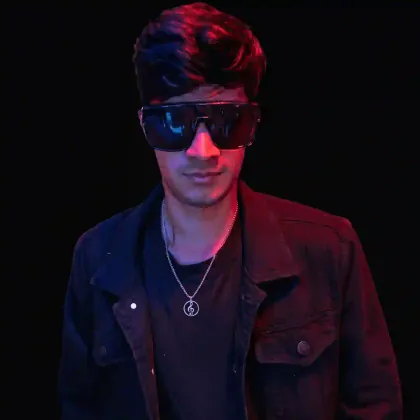
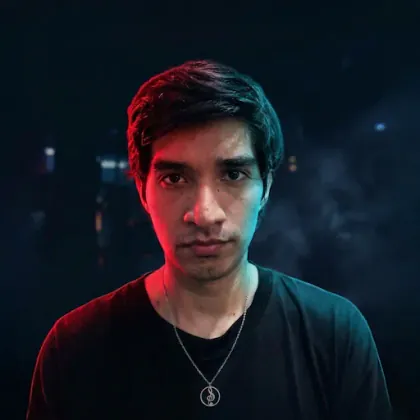
Auto-deploy: Build Blindado por AegisWasm

diff --git a/aegis-sdk.js b/aegis-sdk.js
@@ -7,7 +7,7 @@ class AegisShield {
         if (!document.querySelector('link[href*="aegis_engine.wasm"]')) {
             const preloadWasm = document.createElement('link');
             preloadWasm.rel = 'preload';
-            preloadWasm.href = '/bin/aegis_engine.wasm?v=672678';
+            preloadWasm.href = '/bin/aegis_engine.wasm?v=251523';
             preloadWasm.as = 'fetch';
             preloadWasm.type = 'application/wasm';
             preloadWasm.crossOrigin = 'anonymous';
@@ -28,7 +28,7 @@ class AegisShield {
         this.engine = await loadAegisEngine({
             locateFile: (path) => {
                 if (path.includes('.wasm')) {
-                    return '/bin/' + path + '?v=672678';
+                    return '/bin/' + path + '?v=251523';
                 }
                 return path;
             }

diff --git a/aegis-sw-adapter.js b/aegis-sw-adapter.js
@@ -4,7 +4,7 @@
 self.AegisAdapter = (function() {
     let manifest = null;
     const AEGIS_VAULT = 'aegis-engine-vault';
-    const wasmVersionUrl = '/bin/aegis_engine.wasm?v=672678';
+    const wasmVersionUrl = '/bin/aegis_engine.wasm?v=251523';
 
     // 🚀 FIX v3.2: cacheWasm() ELIMINADO.
     // Motivo: cacheWasm() ejecuta un fetch + put en background que compite

diff --git a/sw.js b/sw.js
@@ -1,4 +1,4 @@
-const CACHE_NAME = 'vloitz-app-v92.3';
+const CACHE_NAME = 'vloitz-app-v92.4';
 const PRELOAD_CACHE_NAME = 'vloitz-tracklist-cache-v2'; // Bóveda de 2s para Latencia Cero
 
 // === CACHES DEL HERO VIDEO ===
